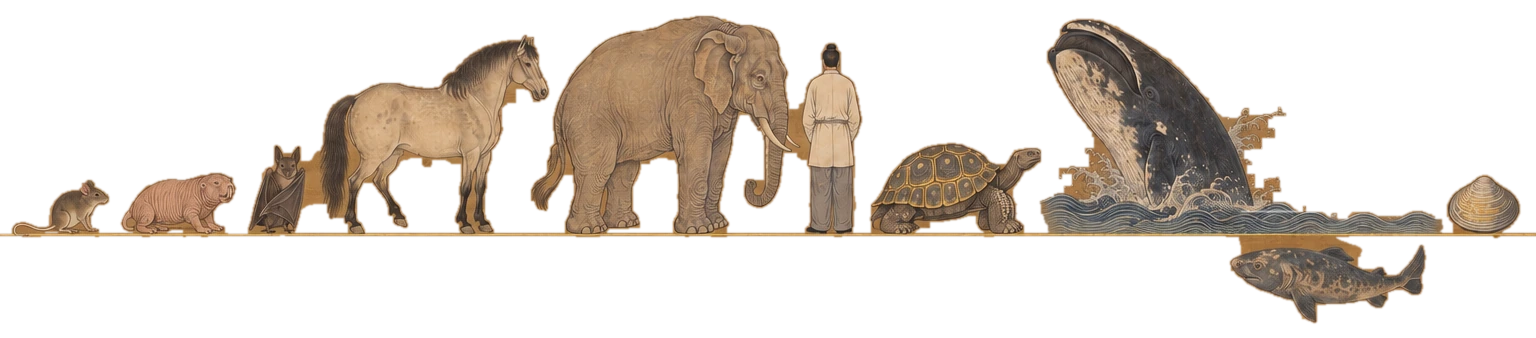
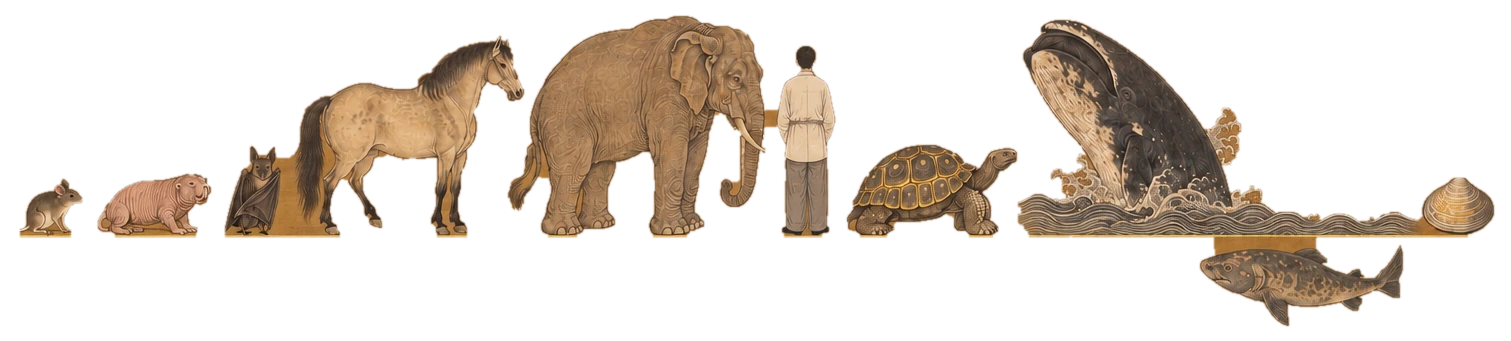
Gold Tang default, new masks, brain stage (checkpoint)

Changed region(s): [[0.0, 0.0296, 1.0, 0.9763]]

diff --git a/film.js b/film.js
@@ -113,12 +113,12 @@
   // baseline offset from the painting's centre (fraction of its height) and where the drawn line ends
   var LAY = TANG ? { base: 0.1923, right: 0.49 } : { base: 0.4576, right: 0.487 };
   var SOURCES = [
-    { src: 'assets/img/' + ART + 'lineup.webp?v=r2', boostTo: 0.22, boost: 2.6 },   // the small animals get more points than their area would earn
-    { src: 'assets/img/' + ART + 'species.webp?v=r2' },
-    { src: 'assets/img/' + ART + 'human.webp?v=r2' },
-    { src: 'assets/img/' + ART + 'tissue.webp?v=r2' },
-    { src: 'assets/img/' + ART + 'cell.webp?v=r2' },
-    { src: 'assets/img/' + ART + 'molecule.webp?v=r2' }
+    { src: 'assets/img/' + ART + 'lineup.webp?v=t3', boostTo: 0.22, boost: 2.6 },   // the small animals get more points than their area would earn
+    { src: 'assets/img/' + ART + (TANG ? 'brain' : 'species') + '.webp?v=t3' },   // Tang: the brain among the longest-lived species
+    { src: 'assets/img/' + ART + 'human.webp?v=t3' },
+    { src: 'assets/img/' + ART + 'tissue.webp?v=t3' },
+    { src: 'assets/img/' + ART + 'cell.webp?v=t3' },
+    { src: 'assets/img/' + ART + 'molecule.webp?v=t3' }
   ];
 
   /* The road. p is scroll progress through the hero, 0..1. Three perspectives, each passed through quickly:
@@ -133,11 +133,12 @@
     { p: 1.00, x: 0.50, z: 1.00 }
   ];
   // Which drawing the points hold: [p, stage]. 0 procession, 1-5 species to molecule, 6 the network.
-  var STAGE = [[0, 0], [0.33, 0], [0.37, 1], [0.39, 1], [0.43, 2], [0.45, 2], [0.49, 3], [0.51, 3], [0.55, 4], [0.57, 4], [0.61, 5], [0.63, 5], [0.69, 6], [1, 6]];
+  var STAGE = [[0, 0], [0.33, 0], [0.37, 1], [0.44, 1], [0.48, 2], [0.50, 2], [0.54, 3], [0.56, 3], [0.60, 4], [0.62, 4], [0.66, 5], [0.68, 5], [0.73, 6], [1, 6]];
   var BEATS = [
     { p: 0.185, name: 'Across species', sub: 'Maximum lifespan spans more than a hundredfold, from a 4-year mouse to a 507-year ocean quahog', w: 0.09 },
-    { p: 0.50, name: 'Across scales', sub: 'Species &nbsp;/&nbsp; human &nbsp;/&nbsp; tissue &nbsp;/&nbsp; cell &nbsp;/&nbsp; molecule', w: 0.13 },
-    { p: 0.745, name: 'One model', sub: 'AI that learns from every species and every scale', w: 0.06, last: true }
+    { p: 0.405, name: 'Brain resilience', sub: 'The longest-lived species may have the most resilient brains', w: 0.045 },
+    { p: 0.58, name: 'Across scales', sub: 'Human &nbsp;/&nbsp; tissue &nbsp;/&nbsp; cell &nbsp;/&nbsp; molecule', w: 0.11 },
+    { p: 0.785, name: 'AI that does research', sub: 'Models and agents that learn from every species and scale, and propose what to test', w: 0.05, last: true }
   ];
   var PEND = 0.30;
   var SOAK_FROM = 0.84, SOAK_TO = 0.95;
@@ -186,7 +187,9 @@
   ].join('\n');
 
   // The sheet: painted blue that drifts, the open dotted rule, and the turn to paper.
-  var GROUND = ART === 'p-tang-' ? 'vec3(0.66, 0.47, 0.27)' : 'vec3(1.0, 0.996, 0.988)';
+  var GROUND = ART === 'p-tang-' ? 'vec3(0.753, 0.569, 0.357)' : 'vec3(1.0, 0.996, 0.988)';
+  var PAPER = ART === 'p-tang-' ? 'vec3(0.937, 0.890, 0.796)' : 'vec3(0.949, 0.945, 0.929)';   // the section after the hero
+  var GLOW = ART === 'p-tang-' ? 'vec3(0.07, 0.05, 0.02)' : 'vec3(0.04, 0.06, 0.10)';
   var ground = program(
     'attribute vec2 a; varying vec2 vUv; void main(){ vUv = a*0.5+0.5; gl_Position = vec4(a,0.,1.); }',
     ['precision highp float;', 'varying vec2 vUv;',
@@ -200,14 +203,14 @@
       '  vec3 col = blue*(1.0 + uTex*(0.25*(drift-0.5) + 0.07*(brush-0.5)));',
       // a soft pool of light follows the pointer
       '  float md = length((px - uMouse)/uRes.y);',
-      '  col += vec3(0.04, 0.06, 0.10)*exp(-md*md*9.0);',
+      '  col += ' + GLOW + '*exp(-md*md*9.0);',
       '  col += (hash(px + fract(uTime)*71.0) - 0.5)*uGrain;',
       '  if (px.x > uLineX) {',
       '    float onLine = 1.0 - smoothstep(0.6, 1.7, abs(px.y - uLineY));',
       '    float dash = step(0.5, fract((px.x - uLineX)/14.0));',
       '    col = mix(col, vec3(0.11), onLine*(1.0-dash)*uBeyond*0.9);',
       '  }',
-      '  vec3 paper = vec3(0.949, 0.945, 0.929);',
+      '  vec3 paper = ' + PAPER + ';',
       '  vec2 rr = (vUv - vec2(0.5, 0.5))*vec2(asp, 1.0);',
       '  float front = uSoak*(0.62*asp + 0.75) - length(rr) + (fbm(vUv*vec2(asp,1.0)*3.5 + 3.0)-0.5)*0.55 + (fbm(vUv*vec2(asp,1.0)*15.0)-0.5)*0.12;',
       '  float k = smoothstep(0.0, 0.035, front) * step(0.0001, uSoak);',

diff --git a/main.js b/main.js
@@ -3,7 +3,7 @@
   // An alternate art series can be shown with ?art=tang; image names differ only by prefix.
   if (document.documentElement.getAttribute('data-art') === 'tang') {
     Array.prototype.forEach.call(document.querySelectorAll('img[src*="assets/img/uk-"], img[src*="assets/img/p-"]'), function (im) {
-      im.src = im.getAttribute('src').replace('assets/img/uk-', 'assets/img/tang-').replace('assets/img/p-', 'assets/img/p-tang-');
+      im.src = im.getAttribute('src').replace('assets/img/uk-', 'assets/img/tang-').replace('assets/img/p-', 'assets/img/p-tang-').replace(/\.webp(\?.*)?$/, '.webp?v=t3');
     });
   }
   var NS = 'http://www.w3.org/2000/svg';
@@ -228,26 +228,30 @@
   var pubList = document.getElementById('pub-list');
   // Each paper is a full-width band of its painting with the title on a plate in the middle; it opens a detail view.
   var dlg = document.getElementById('pub-dialog');
+  var TANGART = document.documentElement.getAttribute('data-art') === 'tang';
   (window.LAB_PUBS || []).forEach(function (p, k) {
     var li = h('li', 'pub');
     li.setAttribute('data-tag', p.tag);
     var band = h('button', 'pub-band'); band.type = 'button';
-    if (p.img) band.style.backgroundImage = 'url(' + p.img.replace('.webp', '-wide.webp') + '?v=m1), url(' + p.img + '?v=m1)';
+    var art = TANGART && p.img ? p.img.replace('assets/img/paper-', 'assets/img/tang-paper-') : p.img;
+    p.art = art;
+    if (art) band.style.backgroundImage = 'url(' + art.replace('.webp', '-wide.webp') + '?v=t3), url(' + art + '?v=t3)';
     var plate = h('span', 'pub-plate');
     plate.appendChild(h('span', 'pub-meta', p.venue + ' · ' + p.year + (p.preprint ? ' · Preprint' : '')));
     plate.appendChild(h('span', 'pub-title', p.title));
     var a = h('span', 'pub-authors');
     p.authors.split(/(Ying, K\.)/).forEach(function (part) { a.appendChild(part === 'Ying, K.' ? h('b', null, part) : document.createTextNode(part)); });
     plate.appendChild(a);
-    band.appendChild(plate);
+    if (TANGART) { li.appendChild(band); li.appendChild(plate); plate.addEventListener('click', function () { openPub(p); }); plate.classList.add('pub-under'); }
+    else band.appendChild(plate);
     band.setAttribute('aria-label', p.title + ', ' + p.venue + ' ' + p.year + '. Open details.');
     band.addEventListener('click', function () { openPub(p); });
-    li.appendChild(band);
+    if (!TANGART) li.appendChild(band);
     pubList.appendChild(li);
   });
   function openPub(p) {
     if (!dlg) { window.open(p.url, '_blank', 'noopener'); return; }
-    dlg.querySelector('.pd-img').src = p.img ? p.img + '?v=m1' : '';
+    dlg.querySelector('.pd-img').src = p.art ? p.art + '?v=t3' : '';
     dlg.querySelector('.pd-meta').textContent = p.venue + ' · ' + p.year + (p.preprint ? ' · Preprint' : '');
     dlg.querySelector('.pd-title').textContent = p.title;
     var au = dlg.querySelector('.pd-authors'); au.textContent = '';

diff --git a/styles.css b/styles.css
@@ -479,3 +479,17 @@ html[data-art="tang"] .hero-foot .chip { background: rgba(29, 28, 25, 0.12); col
 @media (max-width: 760px) { .pd-grid { grid-template-columns: 1fr; } .pd-img { aspect-ratio: 16 / 10; } .pub-plate .pub-authors { display: none; } }
 
 .hero.is-film .film-cap span { max-width: 46ch; line-height: 1.6; }
+
+/* Tang (default): the whole page in gold. Painting gold for the former blue sheets, a lighter silk for reading sections. */
+html[data-art="tang"] { --paper: #efe3cb; --white: #efe3cb; --paper-2: #efe3cb; --blue: #c0915b; --muted: #5e5141; --rule: rgba(29, 28, 25, 0.22); background: #1d1c19; }
+html[data-art="tang"] body { background: #efe3cb; }
+html[data-art="tang"] .blue { --bg: #c0915b; background-color: #c0915b; --muted: rgba(29, 28, 25, 0.72); }
+html[data-art="tang"] .nav.scrolled { background: #efe3cb; }
+html[data-art="tang"] .pub-under { margin-top: 14px; background: none; box-shadow: none; padding: 0 0 22px; text-align: center; justify-items: center; max-width: none; cursor: pointer; border-bottom: 1px solid var(--rule); }
+html[data-art="tang"] .pub-band { min-height: clamp(200px, 30vw, 520px); border-radius: 4px; }
+html[data-art="tang"] .pub-list { gap: 40px; }
+html[data-art="tang"] .pd-grid { grid-template-columns: 1fr; }
+html[data-art="tang"] .pd-img { aspect-ratio: 3 / 2; height: auto; }
+html[data-art="tang"] .pub-dialog { background: #efe3cb; }
+html[data-art="tang"] .pub-under { display: flex; flex-direction: column; align-items: center; gap: 6px; margin-left: auto; margin-right: auto; }
+html[data-art="tang"] .pub-under > * { grid-column: auto; text-align: center; max-width: 760px; }

diff --git a/index.html b/index.html
@@ -15,7 +15,7 @@
 <meta name="theme-color" content="#0a53a3">
 <link rel="icon" href="assets/favicon.svg" type="image/svg+xml">
 <link rel="stylesheet" href="styles.css?v=20261014r">
-<script>document.documentElement.classList.add('js');(function(){var a=new URLSearchParams(location.search).get('art');if(a==='tang')document.documentElement.setAttribute('data-art','tang');})();</script>
+<script>document.documentElement.classList.add('js');(function(){var a=new URLSearchParams(location.search).get('art');if(a!=='uk')document.documentElement.setAttribute('data-art','tang');})();</script>
 </head>
 <body>
 <a class="skip" href="#main">Skip to content</a>
